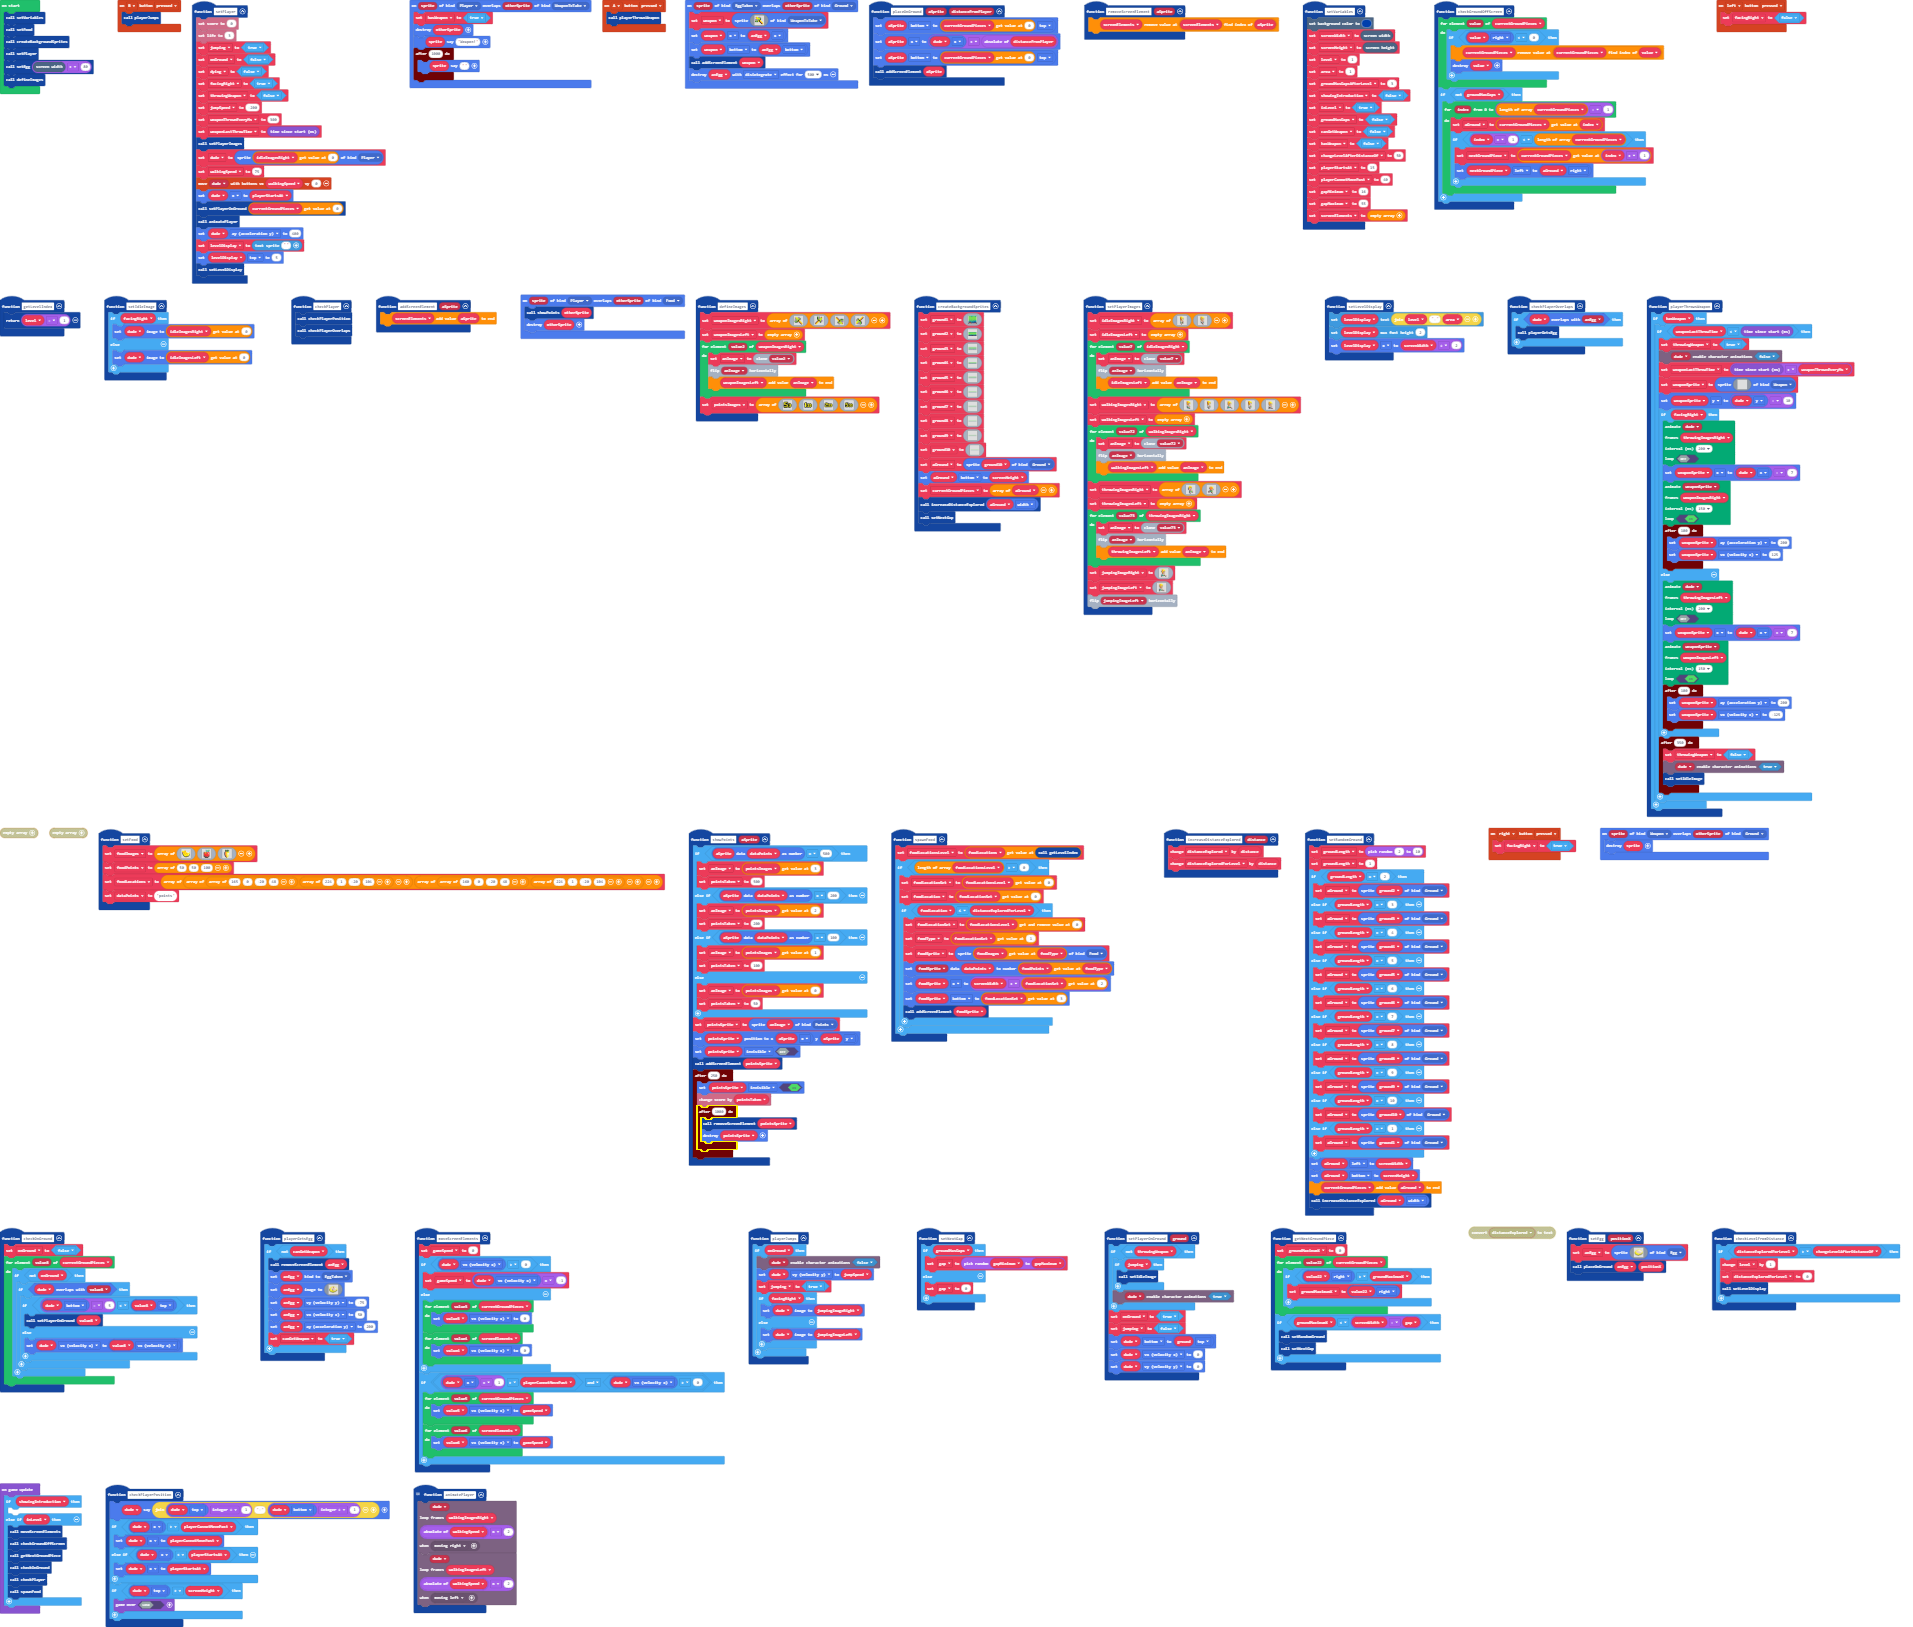
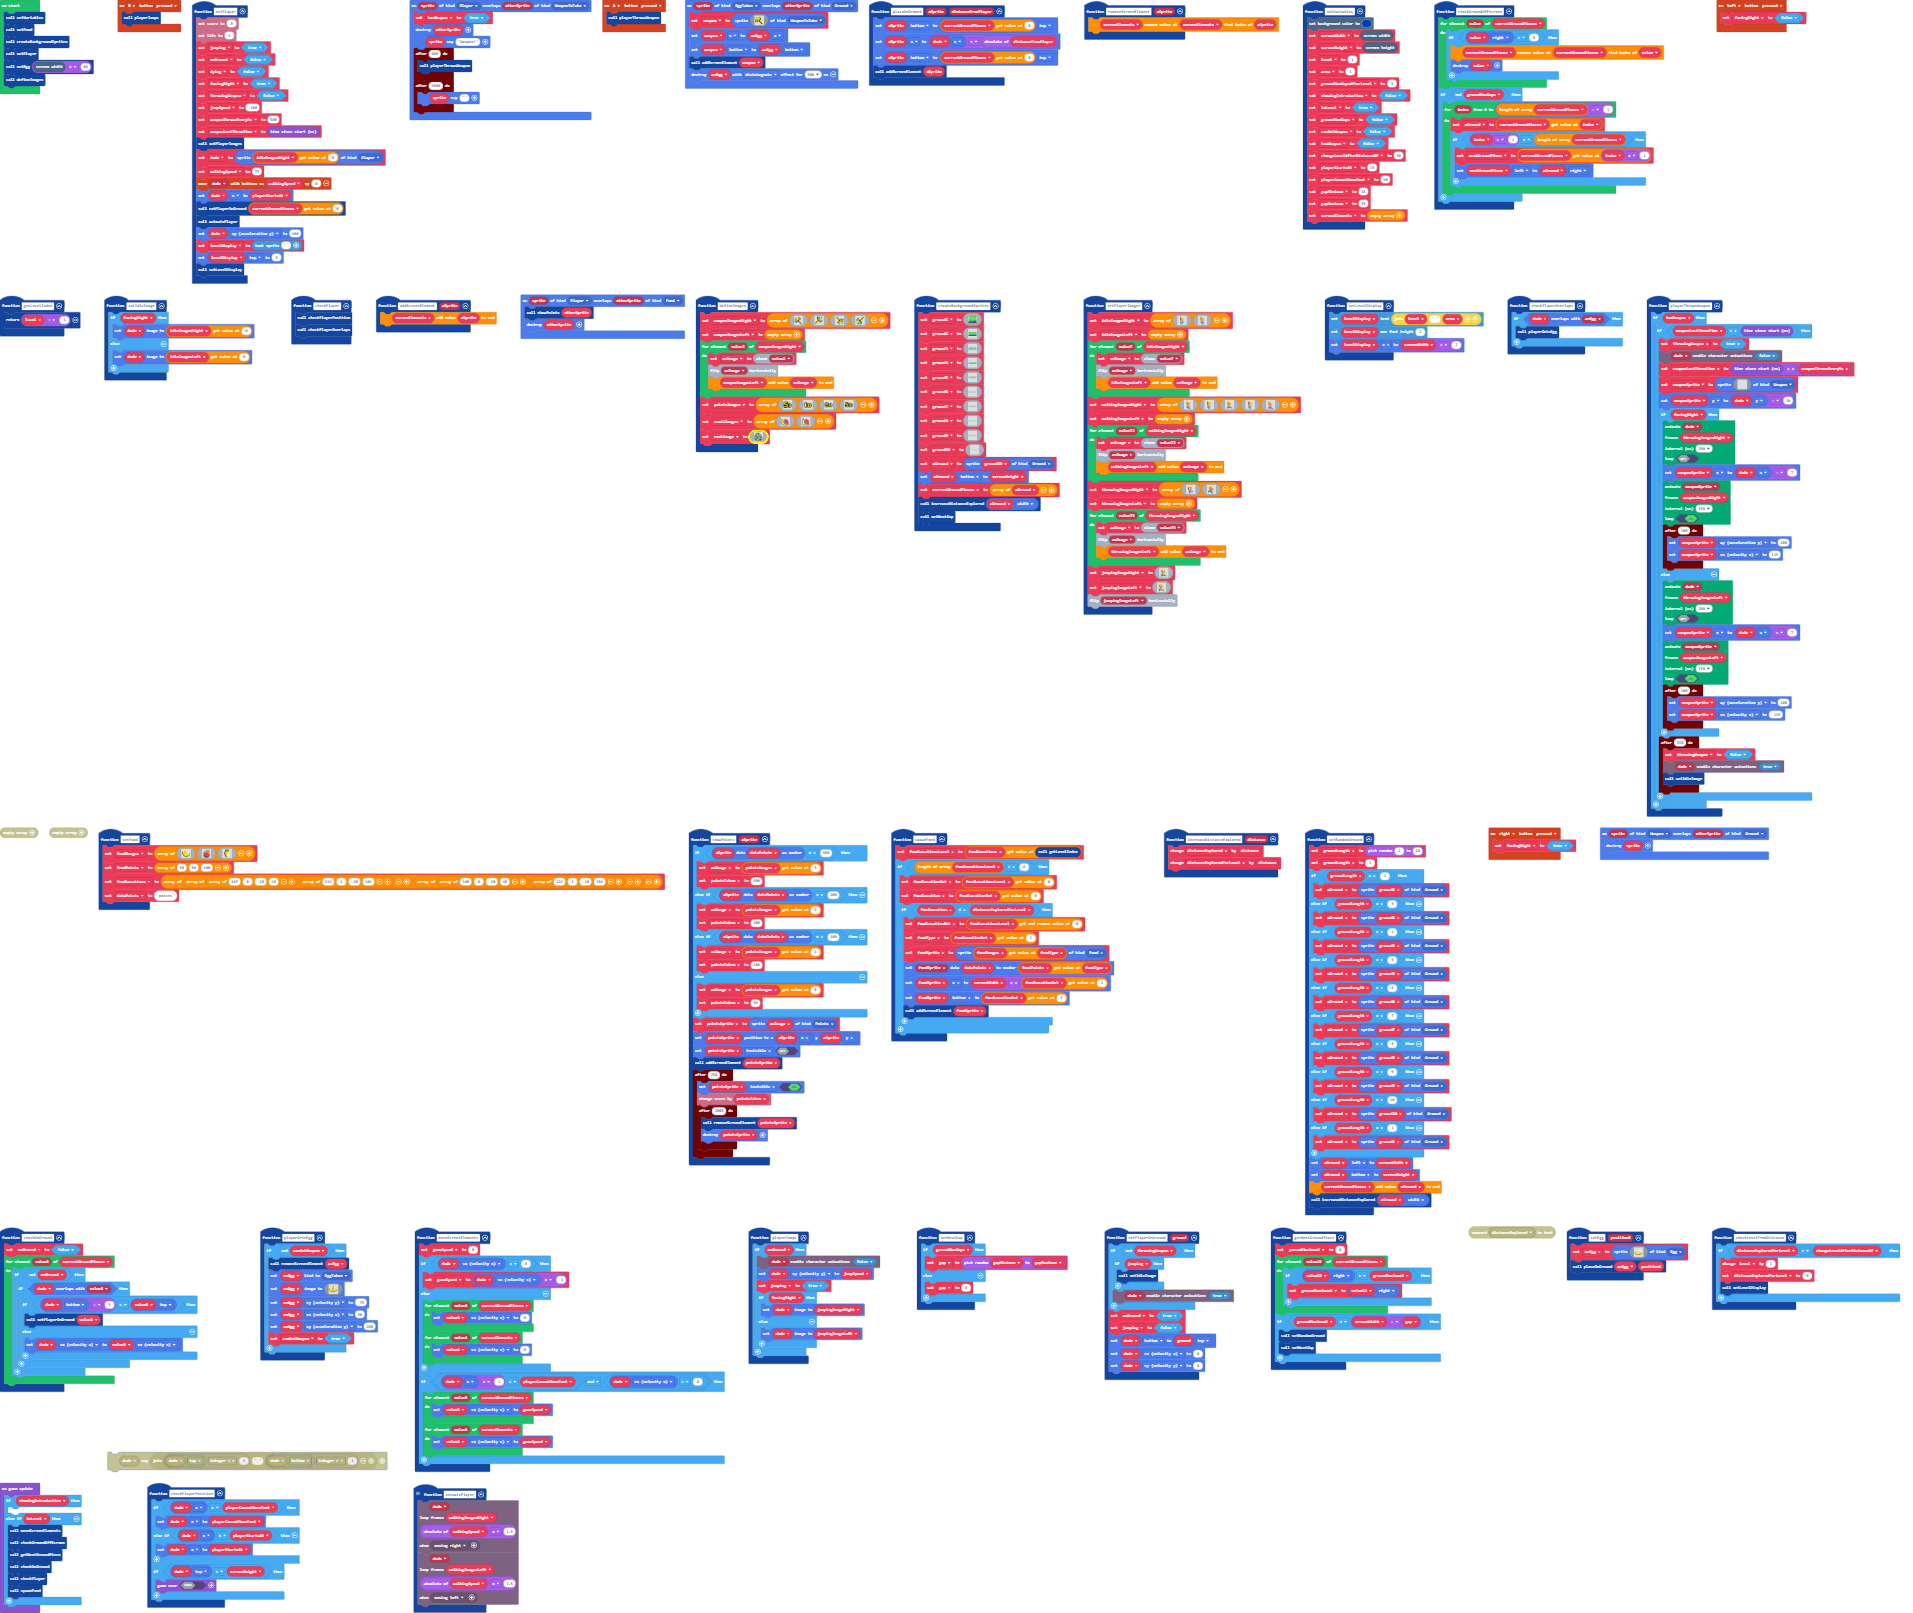
Add rock, snail images

diff --git a/main.ts b/main.ts
@@ -25,13 +25,13 @@ function animatePlayer () {
     character.loopFrames(
     dude,
     walkingImagesRight,
-    Math.abs(walkingSpeed) * 2,
+    Math.abs(walkingSpeed) * 1.5,
     character.rule(Predicate.MovingRight)
     )
     character.loopFrames(
     dude,
     walkingImagesLeft,
-    Math.abs(walkingSpeed) * 2,
+    Math.abs(walkingSpeed) * 1.5,
     character.rule(Predicate.MovingLeft)
     )
 }
@@ -94,6 +94,9 @@ sprites.onOverlap(SpriteKind.Player, SpriteKind.WeaponToTake, function (sprite, 
     hasWeapon = true
     otherSprite.destroy()
     sprite.say("Weapon!")
+    timer.after(500, function () {
+        playerThrowsWeapon()
+    })
     timer.after(1000, function () {
         sprite.say("")
     })
@@ -361,6 +364,74 @@ function defineImages () {
         f f 5 5 5 5 f f 5 5 5 f 5 5 5 f . 
         . f f f f f . . f f f . f f f . . 
         `]
+    snailImages = [img`
+        .....................
+        .....................
+        .....................
+        .55.55...............
+        5545555..............
+        1f11f11...cbbbb......
+        f11f11..ccbb22221....
+        .fff555ccb22222221...
+        ..f5555ccb22cccc222..
+        ..f5551cb22ccbbcc22..
+        .f5551ccb22cb22bcc21.
+        .f5551ccb22c2222bc21.
+        f55551ccb22c22c22c22.
+        f55551ccb22bccb22c22.
+        f55551ccbb22bb222c22.
+        f555551ccb2222222c22.
+        f555551ccbbb2222c2225
+        .f555511ccbbbbbcc2255
+        .f55555111cbbcc22255f
+        ..ff555555111225555f.
+        ....fff5555555555ff..
+        .......ffffffffff....
+        `, img`
+        .55.555..............
+        55455555.............
+        1f11f111.............
+        f11f111..............
+        .ff5ff5..............
+        ...f5f5...cbbbb......
+        ...f5f5.ccbb22221....
+        ...f551ccb22222221...
+        ..f5551ccb22cccc222..
+        ..f5551cb22ccbbcc22..
+        .f5551ccb22cb22bcc21.
+        .f5551ccb22c2222bc21.
+        f55551ccb22c22c22c22.
+        f55551ccb22bccb22c22.
+        f55551ccbb22bb222c22.
+        f555551ccb2222222c22.
+        f555551ccbbb2222c2225
+        .f555511ccbbbbbcc2255
+        .f55555111cbbcc22255f
+        ..ff555555111225555f.
+        ....fff5555555555ff..
+        .......ffffffffff....
+        `]
+    rockImage = img`
+        .....fffff..........
+        ....f7777ffff.......
+        ...f777bbf771f......
+        ...f77bbb1f7b1f.....
+        ..f777bbb1f7bb1f....
+        ..f7fbbbb1f77bb1f...
+        .f77fbbbb1f77bb1f...
+        .f77fbbbbb1f77bb1f..
+        .fff7fbbbb1f77bb1f..
+        .fb1f7fbbb1f77bbff..
+        f7bb1f7b7ffff77f1ff.
+        f77bb1f7f7711fffb1f.
+        f77bb1ff7bbbb1fbbb1f
+        f77bbffbbbbbb1f7bb1f
+        f77bff7bb7bbb1f7bb1f
+        f777f77777bbb1ff7bbf
+        .f7ff77777bb7fff7bbf
+        .f7ff7777777fffff7ff
+        ..fffffffffffffffff.
+        `
 }
 function getNextGroundPiece () {
     groundMaximumX = 0
@@ -1030,7 +1101,6 @@ function setRandomGround () {
     increaseDistanceExplored(aGround.width)
 }
 function checkPlayerPosition () {
-    dude.say("" + Math.idiv(dude.top, 1) + "-" + Math.idiv(dude.bottom, 1))
     if (dude.x > playerCannotMovePast) {
         dude.x = playerCannotMovePast
     } else if (dude.x < playerStartsAt) {
@@ -1243,6 +1313,8 @@ let ground1: Image = null
 let gameSpeed = 0
 let gap = 0
 let groundMaximumX = 0
+let rockImage: Image = null
+let snailImages: Image[] = []
 let pointsImages: Image[] = []
 let anImage: Image = null
 let weaponImagesLeft: Image[] = []
